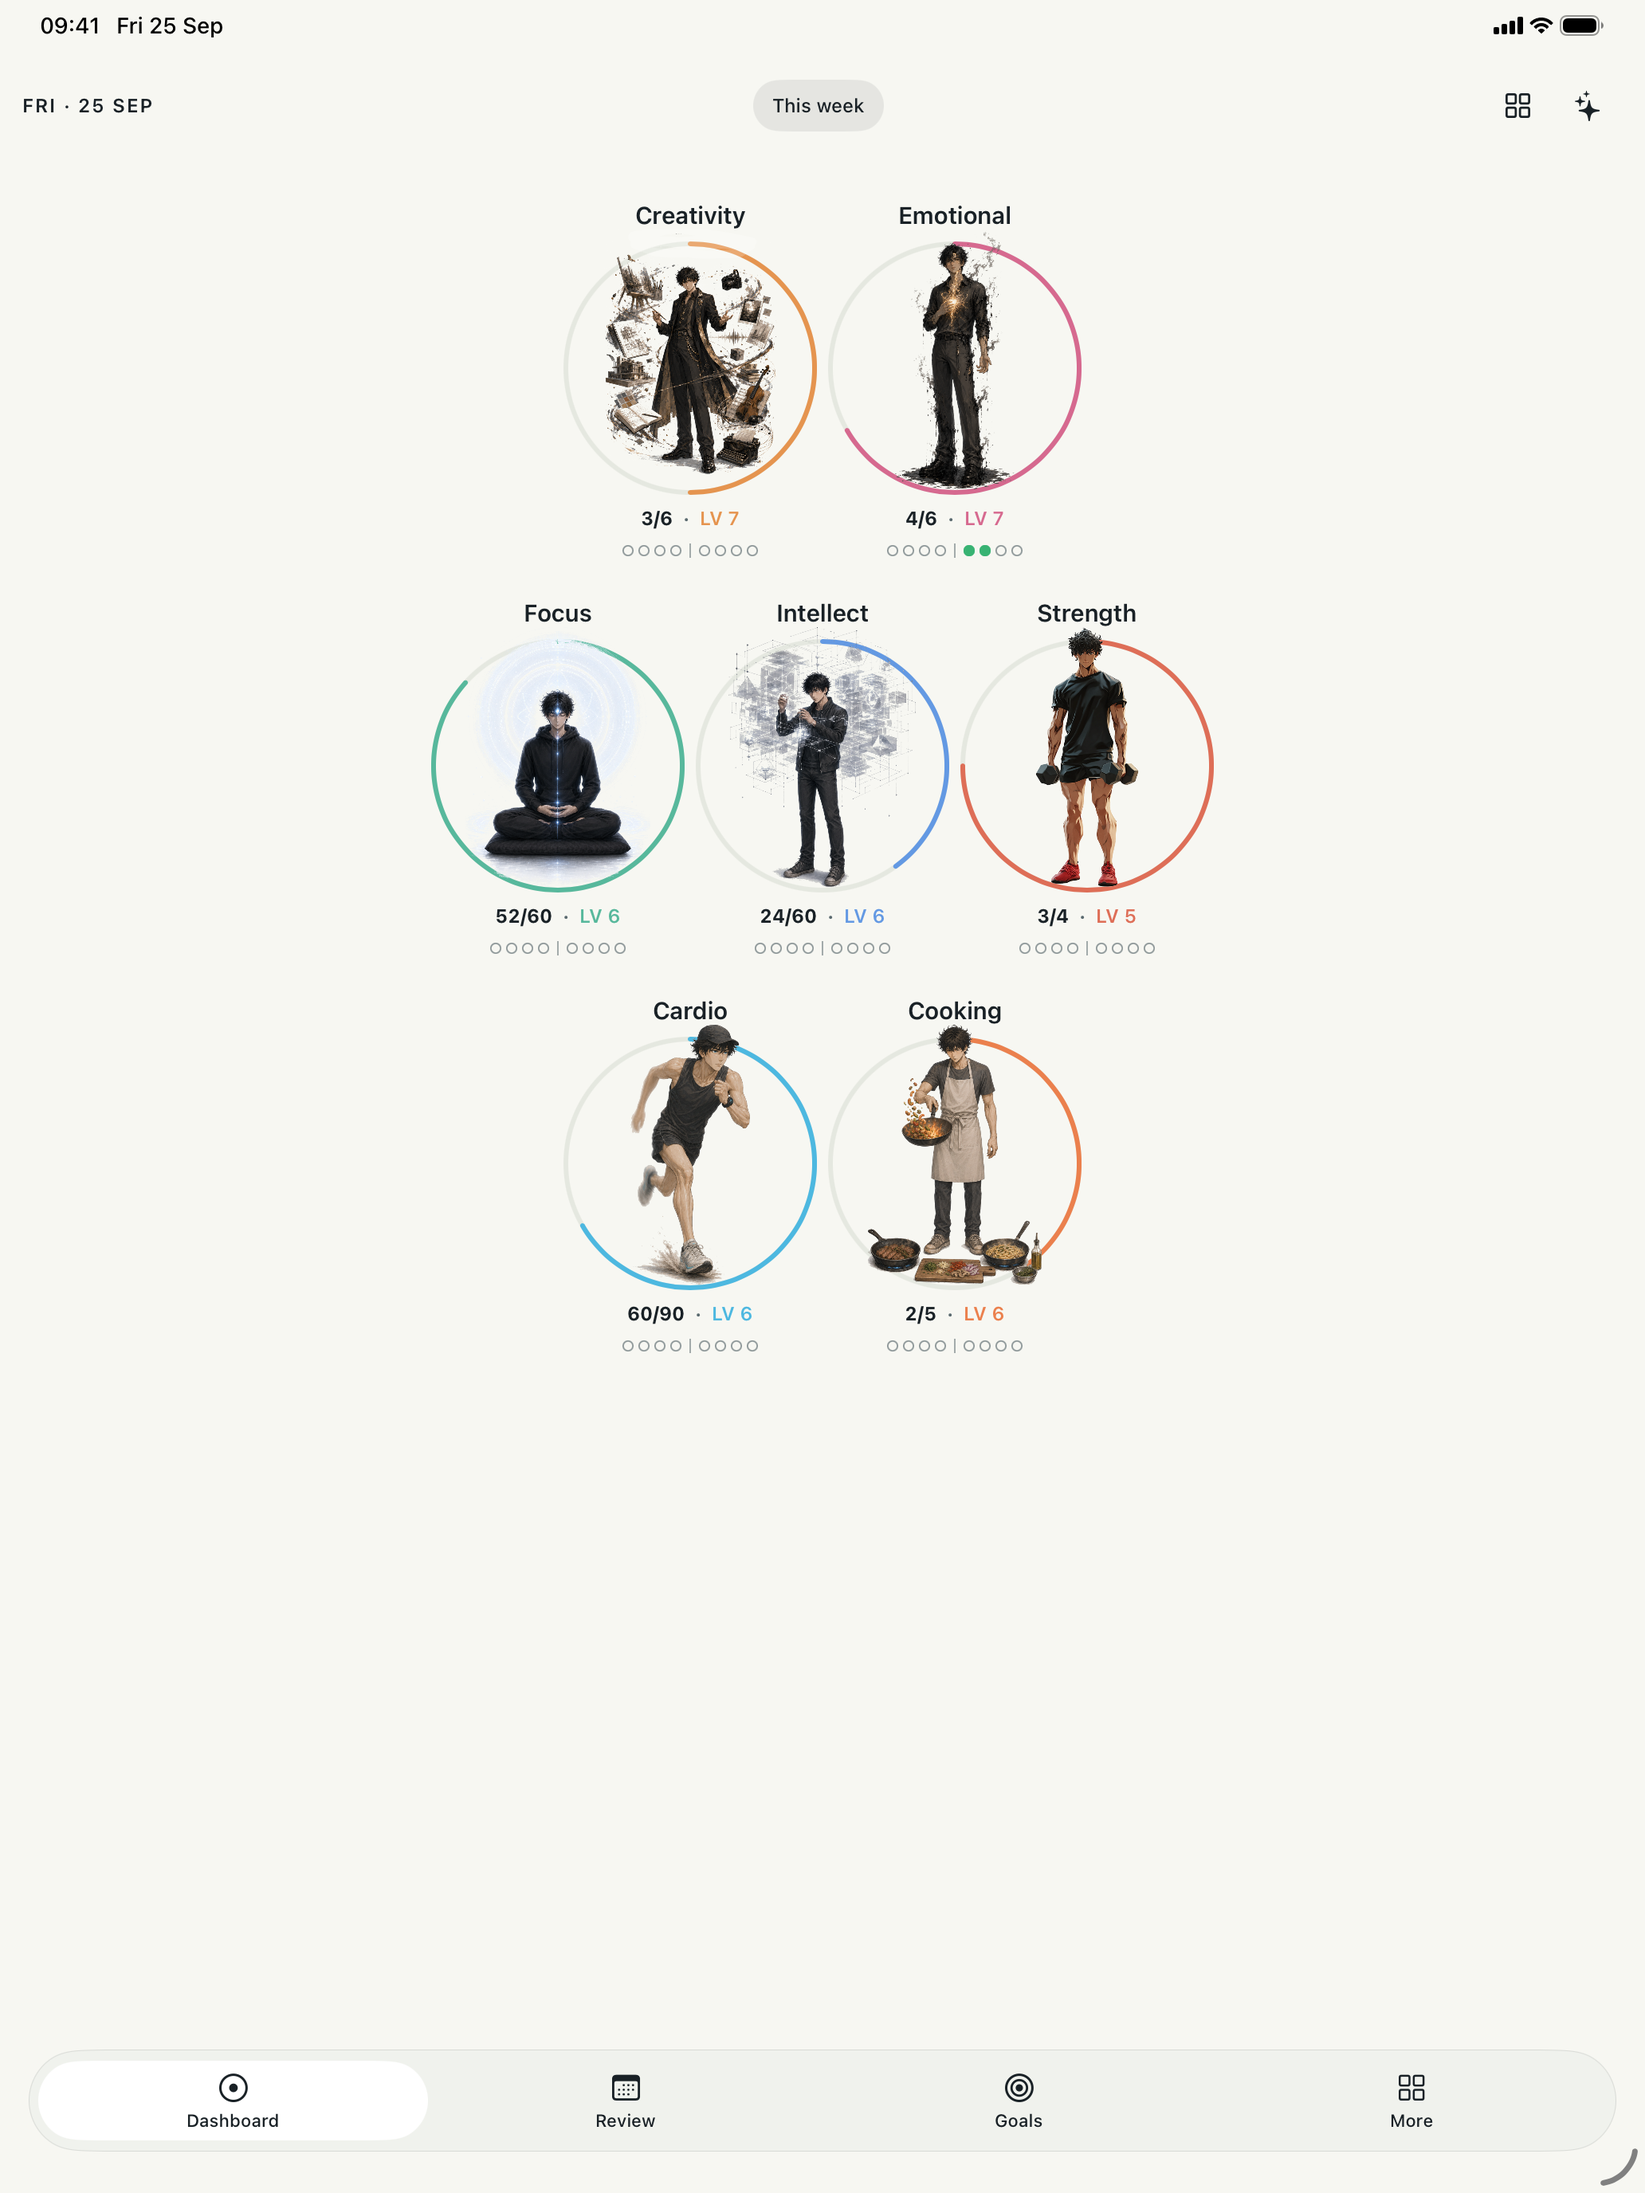
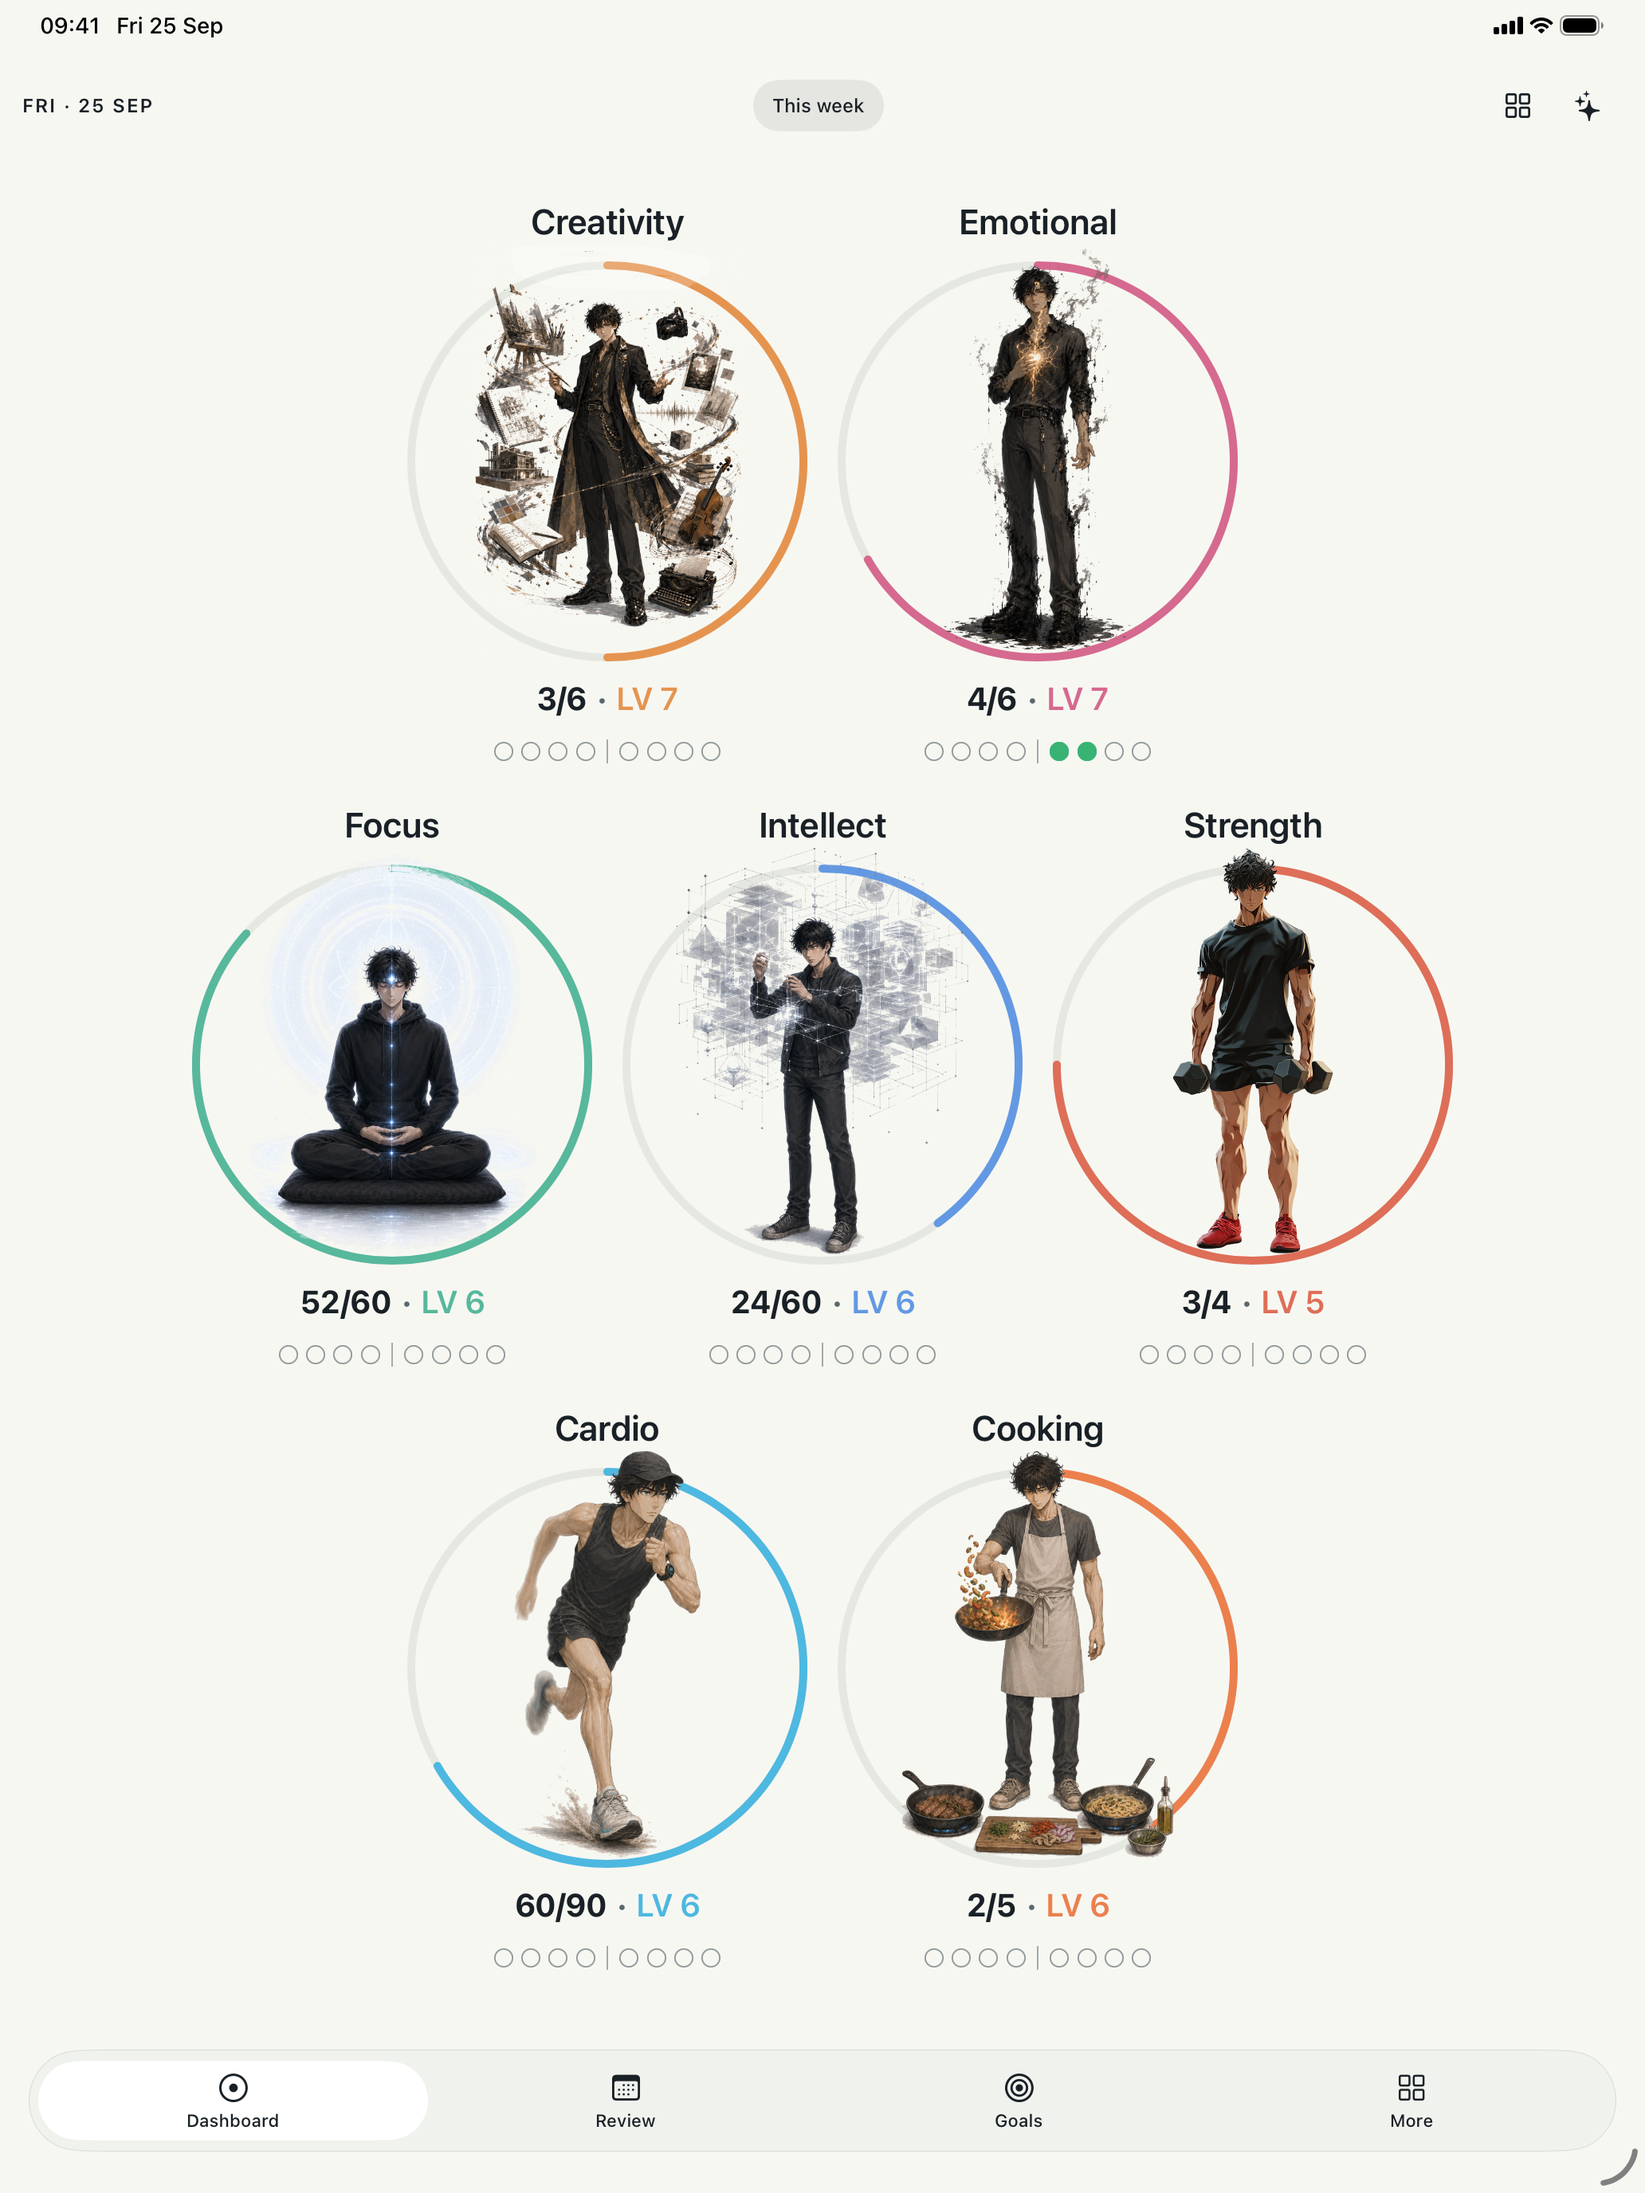
Dashboard: fill the screen on iPad
The honeycomb capped rings at 160pt, which suits a phone but left the
bottom half of an iPad empty. On regular width the cap rises to 340pt
so the three rows fill the height, and the tile's name, fraction/level
labels, ring stroke, charge dots and spacing scale up to match. iPhone
layout is unchanged.

Retakes the iPad 13" dashboard screenshot.

diff --git a/MythosLog/Views/Dashboard/DashboardView.swift b/MythosLog/Views/Dashboard/DashboardView.swift
@@ -68,11 +68,15 @@ struct DashboardView: View {
     /// text size; carried a point over so the estimate errs toward a slightly
     /// larger bottom gap rather than a row that runs into the tab bar. Scaled
     /// so it tracks Dynamic Type, where the labels are what actually grow.
-    @ScaledMetric(relativeTo: .body) private var honeycombTileChromeHeight: CGFloat = 67
+    @ScaledMetric(relativeTo: .body) private var compactHoneycombTileChromeHeight: CGFloat = 67
+    /// The same allowance for iPad, whose tiles use larger labels, charge
+    /// dots and spacing (see `GameDashboardTile`).
+    @ScaledMetric(relativeTo: .body) private var regularHoneycombTileChromeHeight: CGFloat = 112
+    @Environment(\.horizontalSizeClass) private var horizontalSizeClass
     private let twoColumnColumns = 2
     private let twoColumnSpacing: CGFloat = 16
     private let gameGridColumnCount = 3
-    private let gameGridSpacing: CGFloat = 6
+    private var gameGridSpacing: CGFloat { isRegularWidth ? 20 : 6 }
     private let gameGridRowSpacing: CGFloat = 24
     private let dashboardContentSpacing: CGFloat = 18
     private let dashboardContentTopPadding: CGFloat = 4
@@ -86,6 +90,12 @@ struct DashboardView: View {
 
     private var settings: AppSettings? {
         settingsRecords.first
+    }
+
+    private var isRegularWidth: Bool { horizontalSizeClass == .regular }
+
+    private var honeycombTileChromeHeight: CGFloat {
+        isRegularWidth ? regularHoneycombTileChromeHeight : compactHoneycombTileChromeHeight
     }
 
     private var activeStats: [StatDomain] {
@@ -942,8 +952,10 @@ struct DashboardView: View {
         return clampedHoneycombTileWidth(min(widthCap, heightCap))
     }
 
+    /// iPhone rings top out at 160pt; iPad lets them grow until the three
+    /// rows fill the screen, as they do on a phone.
     private func clampedHoneycombTileWidth(_ width: CGFloat) -> CGFloat {
-        min(max(width, 96), 160)
+        min(max(width, 96), isRegularWidth ? 340 : 160)
     }
 
     private func gameDashboardTile(for stat: StatDomain, hasUnmatchedImports: Bool) -> some View {
@@ -1337,12 +1349,19 @@ private struct GameDashboardTile: View {
     let onShowUnmatched: () -> Void
 
     @State private var indicatorPulse = false
+    @Environment(\.horizontalSizeClass) private var horizontalSizeClass
+
+    /// iPad tiles are roughly twice the size of iPhone ones, so their labels,
+    /// ring stroke and charge dots scale up to match.
+    private var isRegularWidth: Bool { horizontalSizeClass == .regular }
 
     private var accent: Color {
         TrainingArcConfig.color(for: stat.colorToken)
     }
 
     private var ringTint: Color { accent }
+    private var ringLineWidth: CGFloat { isRegularWidth ? 5 : 3 }
+    private var labelFont: Font { isRegularWidth ? .title3 : .caption }
 
     private var rankIndicatorTint: Color {
         guard let direction = snapshot.pendingRankChange?.direction else { return .clear }
@@ -1374,9 +1393,9 @@ private struct GameDashboardTile: View {
     }
 
     private var tileContent: some View {
-            VStack(spacing: 7) {
+            VStack(spacing: isRegularWidth ? 12 : 7) {
                 Text(stat.name)
-                    .font(.subheadline.weight(.semibold))
+                    .font((isRegularWidth ? Font.title2 : .subheadline).weight(.semibold))
                     .foregroundStyle(TrainingTheme.textPrimary)
                     .lineLimit(1)
                     .minimumScaleFactor(0.72)
@@ -1385,12 +1404,12 @@ private struct GameDashboardTile: View {
 
                 ZStack {
                     Circle()
-                        .stroke(TrainingTheme.backgroundTertiary, lineWidth: 3)
+                        .stroke(TrainingTheme.backgroundTertiary, lineWidth: ringLineWidth)
                         .padding(2)
 
                     Circle()
                         .trim(from: 0, to: snapshot.weeklyTargetProgress)
-                        .stroke(ringTint, style: StrokeStyle(lineWidth: 3, lineCap: .round))
+                        .stroke(ringTint, style: StrokeStyle(lineWidth: ringLineWidth, lineCap: .round))
                         .rotationEffect(.degrees(-90))
                         .padding(2)
                         .animation(.spring(response: 0.55, dampingFraction: 0.82), value: snapshot.weeklyTargetProgress)
@@ -1409,24 +1428,24 @@ private struct GameDashboardTile: View {
 
                 HStack(spacing: 6) {
                     Text(snapshot.weeklyTargetFractionLabel)
-                        .font(.caption.weight(.bold))
+                        .font(labelFont.weight(.bold))
                         .foregroundStyle(TrainingTheme.textPrimary)
                         .monospacedDigit()
                         .lineLimit(1)
                         .minimumScaleFactor(0.72)
                     Text("·")
-                        .font(.caption.weight(.bold))
+                        .font(labelFont.weight(.bold))
                         .foregroundStyle(TrainingTheme.textMuted)
                     Text("LV \(V4Style.displayNumber(snapshot.rank.level))")
-                        .font(.caption.weight(.semibold))
+                        .font(labelFont.weight(.semibold))
                         .foregroundStyle(accent)
                         .lineLimit(1)
                         .minimumScaleFactor(0.7)
                 }
                 .frame(maxWidth: .infinity)
 
-                DashboardChargeTrack(charge: snapshot.charge.current)
-                    .frame(height: 12)
+                DashboardChargeTrack(charge: snapshot.charge.current, dotSize: isRegularWidth ? 12 : 7)
+                    .frame(height: isRegularWidth ? 18 : 12)
                     .frame(maxWidth: .infinity)
 
             }

diff --git a/MythosLog/Views/Components/StatCard.swift b/MythosLog/Views/Components/StatCard.swift
@@ -725,16 +725,17 @@ struct DashboardGridTile: View {
 /// visible; negative charges fill from the divider toward the left.
 struct DashboardChargeTrack: View {
     let charge: Int
+    var dotSize: CGFloat = 7
 
     var body: some View {
-        HStack(spacing: 3) {
+        HStack(spacing: dotSize * 3 / 7) {
             ForEach(0..<DashboardChargeDots.slotsPerSide, id: \.self) { index in
                 dot(filled: DashboardChargeDots.negativeDots(from: charge) > DashboardChargeDots.slotsPerSide - index - 1,
                     tint: TrainingTheme.danger)
             }
             Rectangle()
                 .fill(TrainingTheme.textSecondary.opacity(0.5))
-                .frame(width: 1, height: 9)
+                .frame(width: 1, height: dotSize * 9 / 7)
                 .padding(.horizontal, 2)
             ForEach(0..<DashboardChargeDots.slotsPerSide, id: \.self) { index in
                 dot(filled: DashboardChargeDots.positiveDots(from: charge) > index,
@@ -749,6 +750,6 @@ struct DashboardChargeTrack: View {
         Circle()
             .fill(filled ? tint : Color.clear)
             .overlay(Circle().strokeBorder(filled ? tint : TrainingTheme.textSecondary.opacity(0.65), lineWidth: 0.9))
-            .frame(width: 7, height: 7)
+            .frame(width: dotSize, height: dotSize)
     }
 }
